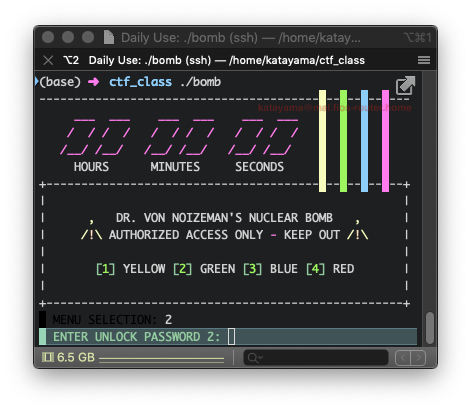
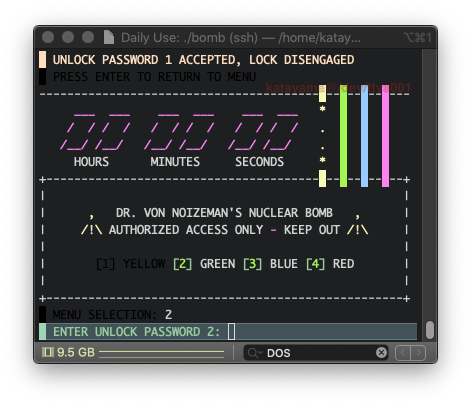
update README.md

diff --git a/reverse/nuclear_bomb_yellow/README.md b/reverse/nuclear_bomb_yellow/README.md
@@ -3,15 +3,15 @@
 You must defuse Dr. Von Noizeman's nuclear bomb!
 <p>The flag for this challenge is the answer for the <font color="yellow"><b>yellow</b></font> wire, wrapped in the <b>UDCTF{}</b> flag format.</p>
 
-FILE: [bomb](https://github.com/kkatayama/ctf_class/blob/master/crypto/nuclear_bomb_yellow/bomb?raw=true)
+FILE: [bomb](https://github.com/kkatayama/ctf_class/blob/master/reverse/nuclear_bomb_yellow/bomb?raw=true)
 
 ## Initial Analysis 
-For this challenge, we were given a binary file [bomb](https://github.com/kkatayama/ctf_class/blob/master/crypto/nuclear_bomb_yellow/bomb?raw=true).
+For this challenge, we were given a binary file [bomb](https://github.com/kkatayama/ctf_class/blob/master/reverse/nuclear_bomb_yellow/bomb?raw=true).
 
 When we run the binary, we are greeted with a menu selection: `[1] YELLOW [2] GREEN [3] BLUE [4] RED`.
 Selecting `[1]` prompts us to `ENTER UNLOCK PASSWORD 1:`
 
-![intro.png](https://raw.githubusercontent.com/kkatayama/ctf_class/master/crypto/nuclear_bomb_yellow/intro.png)
+![intro.png](https://raw.githubusercontent.com/kkatayama/ctf_class/master/reverse/nuclear_bomb_yellow/intro.png)
 
 
 ## Tools 
@@ -19,10 +19,16 @@ Selecting `[1]` prompts us to `ENTER UNLOCK PASSWORD 1:`
 * cutter (osx GUI for radare2)
 
 ## Computing the Answer 
+### Debugging
 
+![verify](https://raw.githubusercontent.com/kkatayama/ctf_class/master/reverse/nuclear_bomb_yellow/verify.png)
 
+Looking at the debugger, after we enter the password the binary checks each 4-byte integer that was submitted.  To make sure of this, I entered what I expected the checked values to be, ran it, and set some breakpoints just before the final check before being cleared.  However, after the final check of the password entered, two adjustments are made before it is considered a valid code to `Disengage` the yellow wire.  This is a subtle but very important to recognize as this became challenging with other wires. 
+
+### RESULTS
+![hack](https://raw.githubusercontent.com/kkatayama/ctf_class/master/reverse/nuclear_bomb_yellow/hack.png)
 
 ## The Flag 
 ```ObjectScript
-UDCTF{youwillneverguessthis}
+UDCTF{84371065}
 ```

diff --git a/reverse/nuclear_bomb_green/README.md b/reverse/nuclear_bomb_green/README.md
@@ -1,14 +1,17 @@
-# Nuclear_Bomb_Yellow
+# Nuclear_Bomb_Green
 
 You must defuse Dr. Von Noizeman's nuclear bomb!
-<p>The flag for this challenge is the answer for the <font color="yellow"><b>yellow</b></font> wire, wrapped in the <b>UDCTF{}</b> flag format.</p>
 
-FILE: [bomb](https://github.com/kkatayama/ctf_class/blob/master/crypto/nuclear_bomb_yellow/bomb?raw=true)
+The flag for this challenge is the answer for the `green` wire, wrapped in the `UDCTF{}` flag format.
+
+Please see the Nuclear Bomb: Yellow challenge for the bomb executable.
+
+FILE: [bomb](https://github.com/kkatayama/ctf_class/blob/master/reverse/nuclear_bomb_yellow/bomb?raw=true)
 
 ## Initial Analysis 
-For this challenge, we were given a binary file [bomb](https://github.com/kkatayama/ctf_class/blob/master/crypto/nuclear_bomb_yellow/bomb?raw=true).
+For this challenge, we were given a binary file [bomb](https://github.com/kkatayama/ctf_class/blob/master/reverse/nuclear_bomb_yellow/bomb?raw=true).
 
-
+This time 
 
 ## Tools 
 
